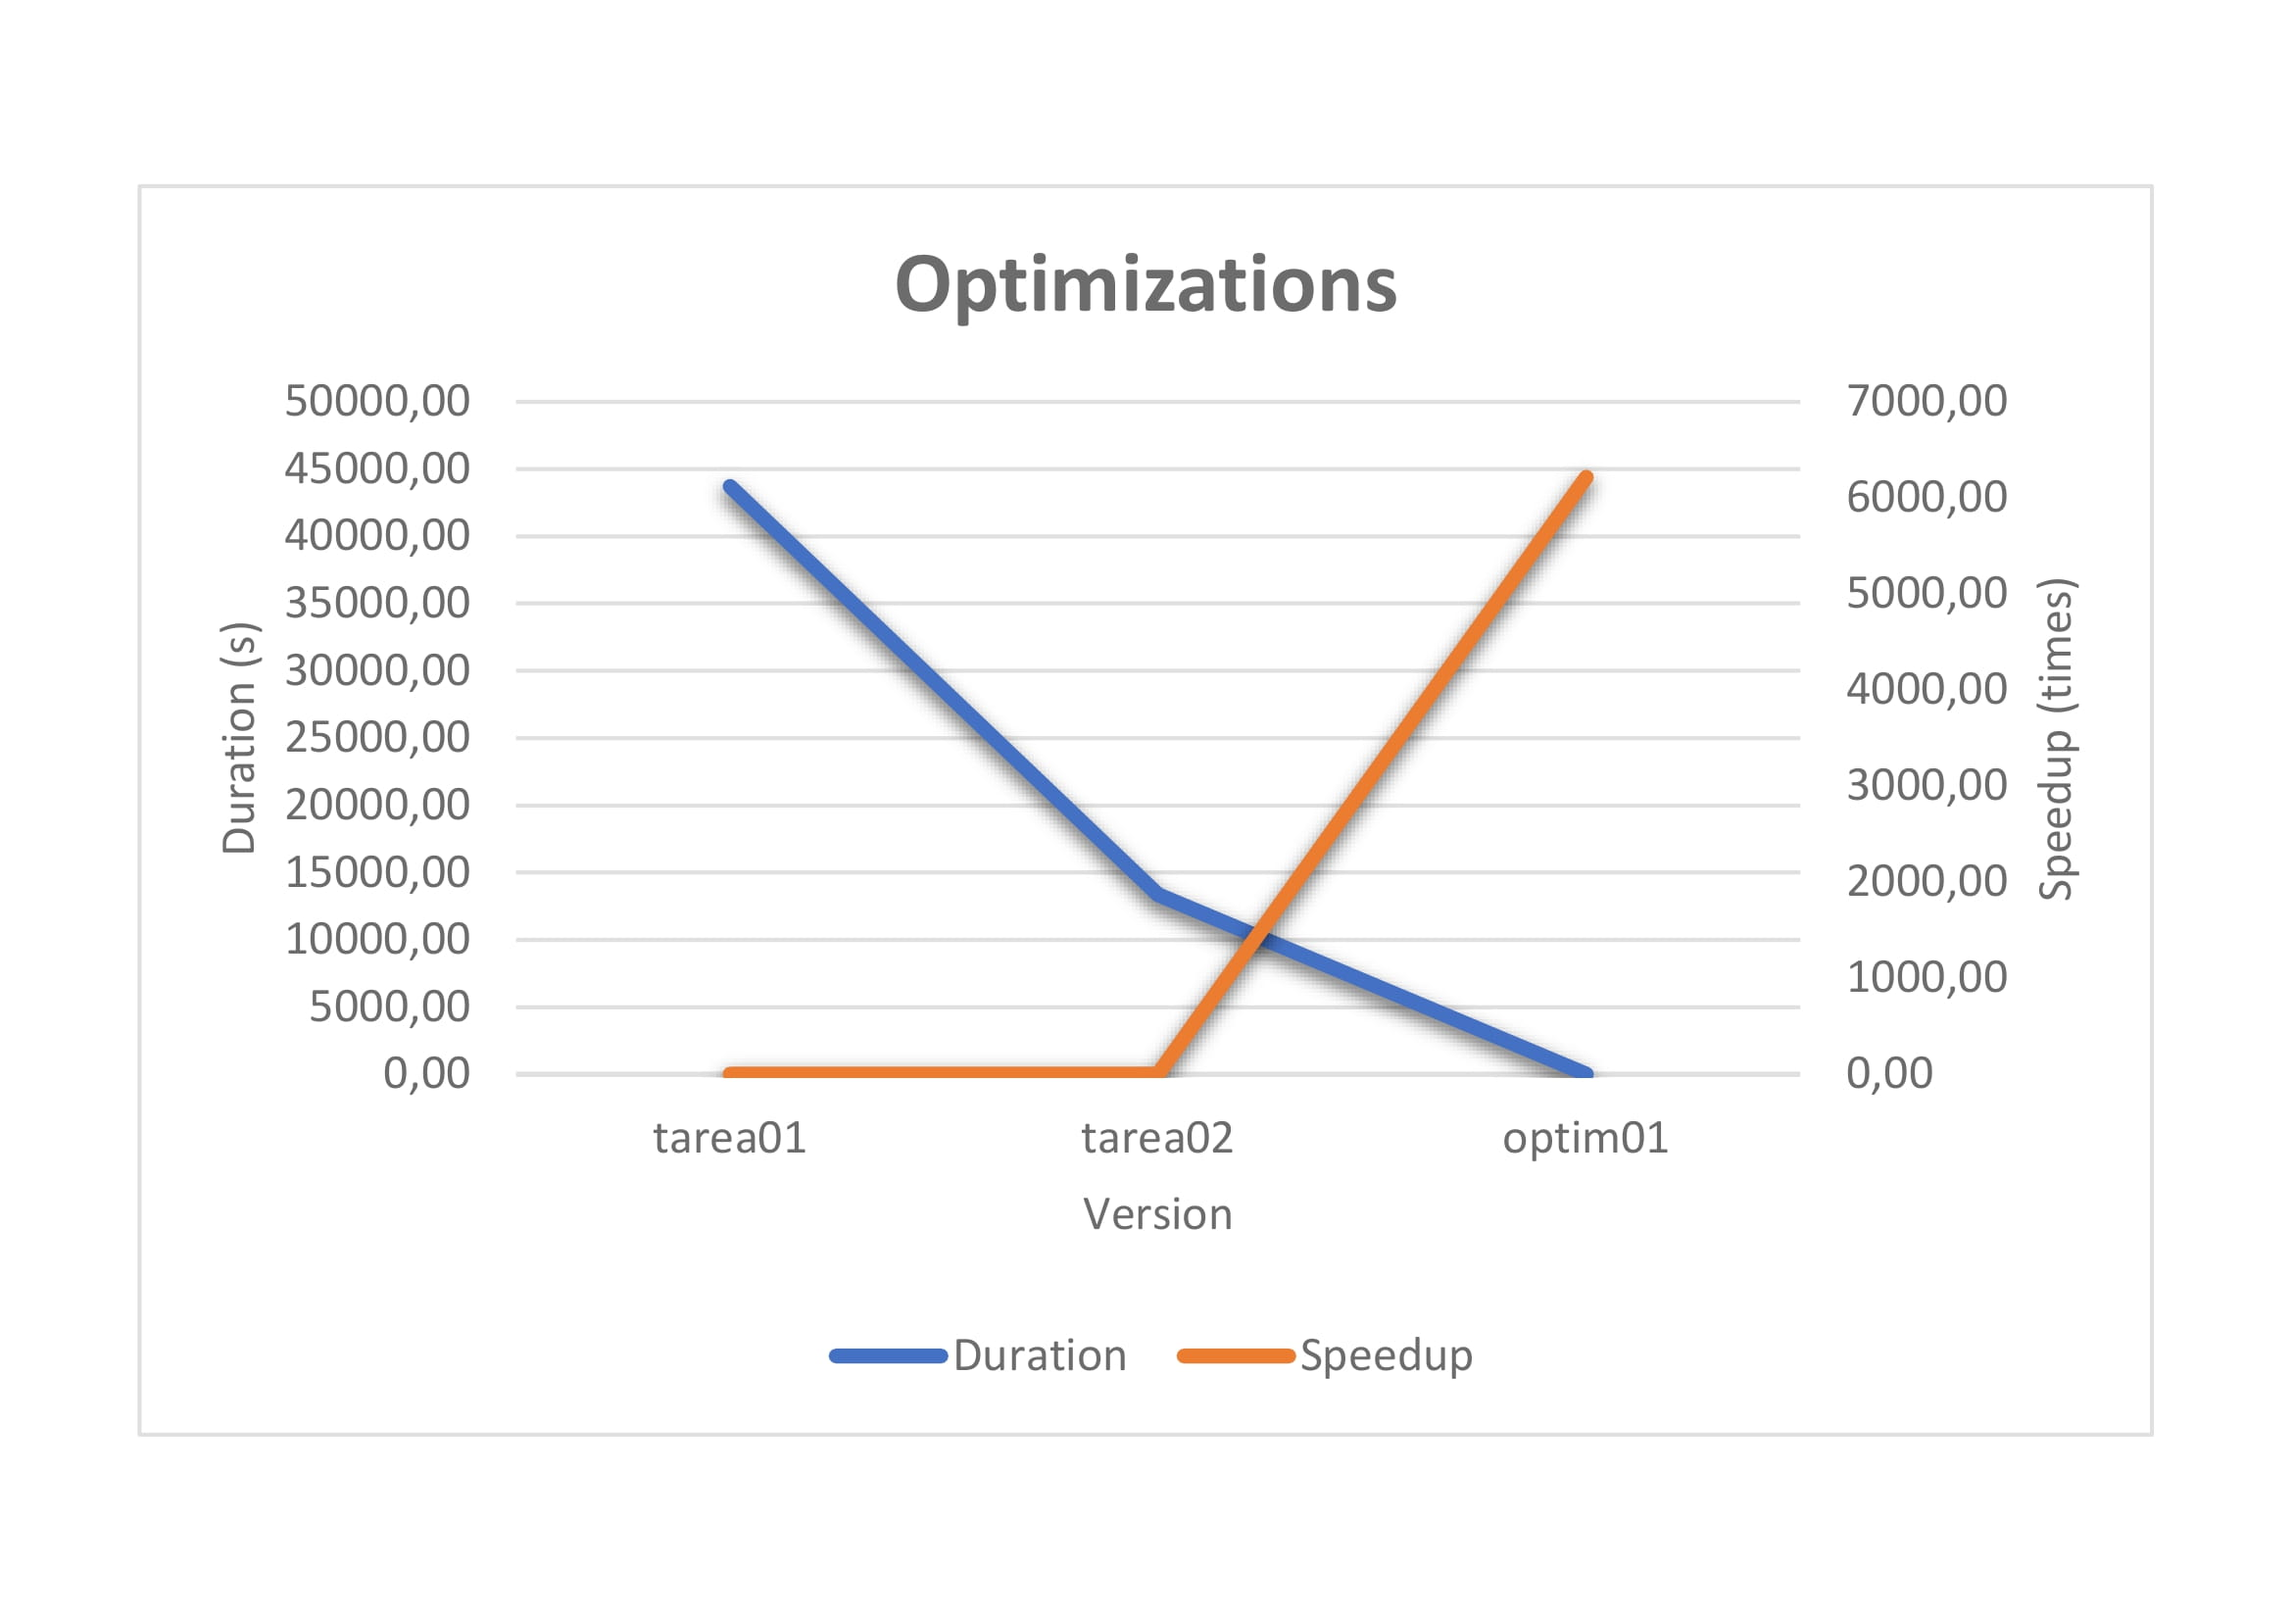
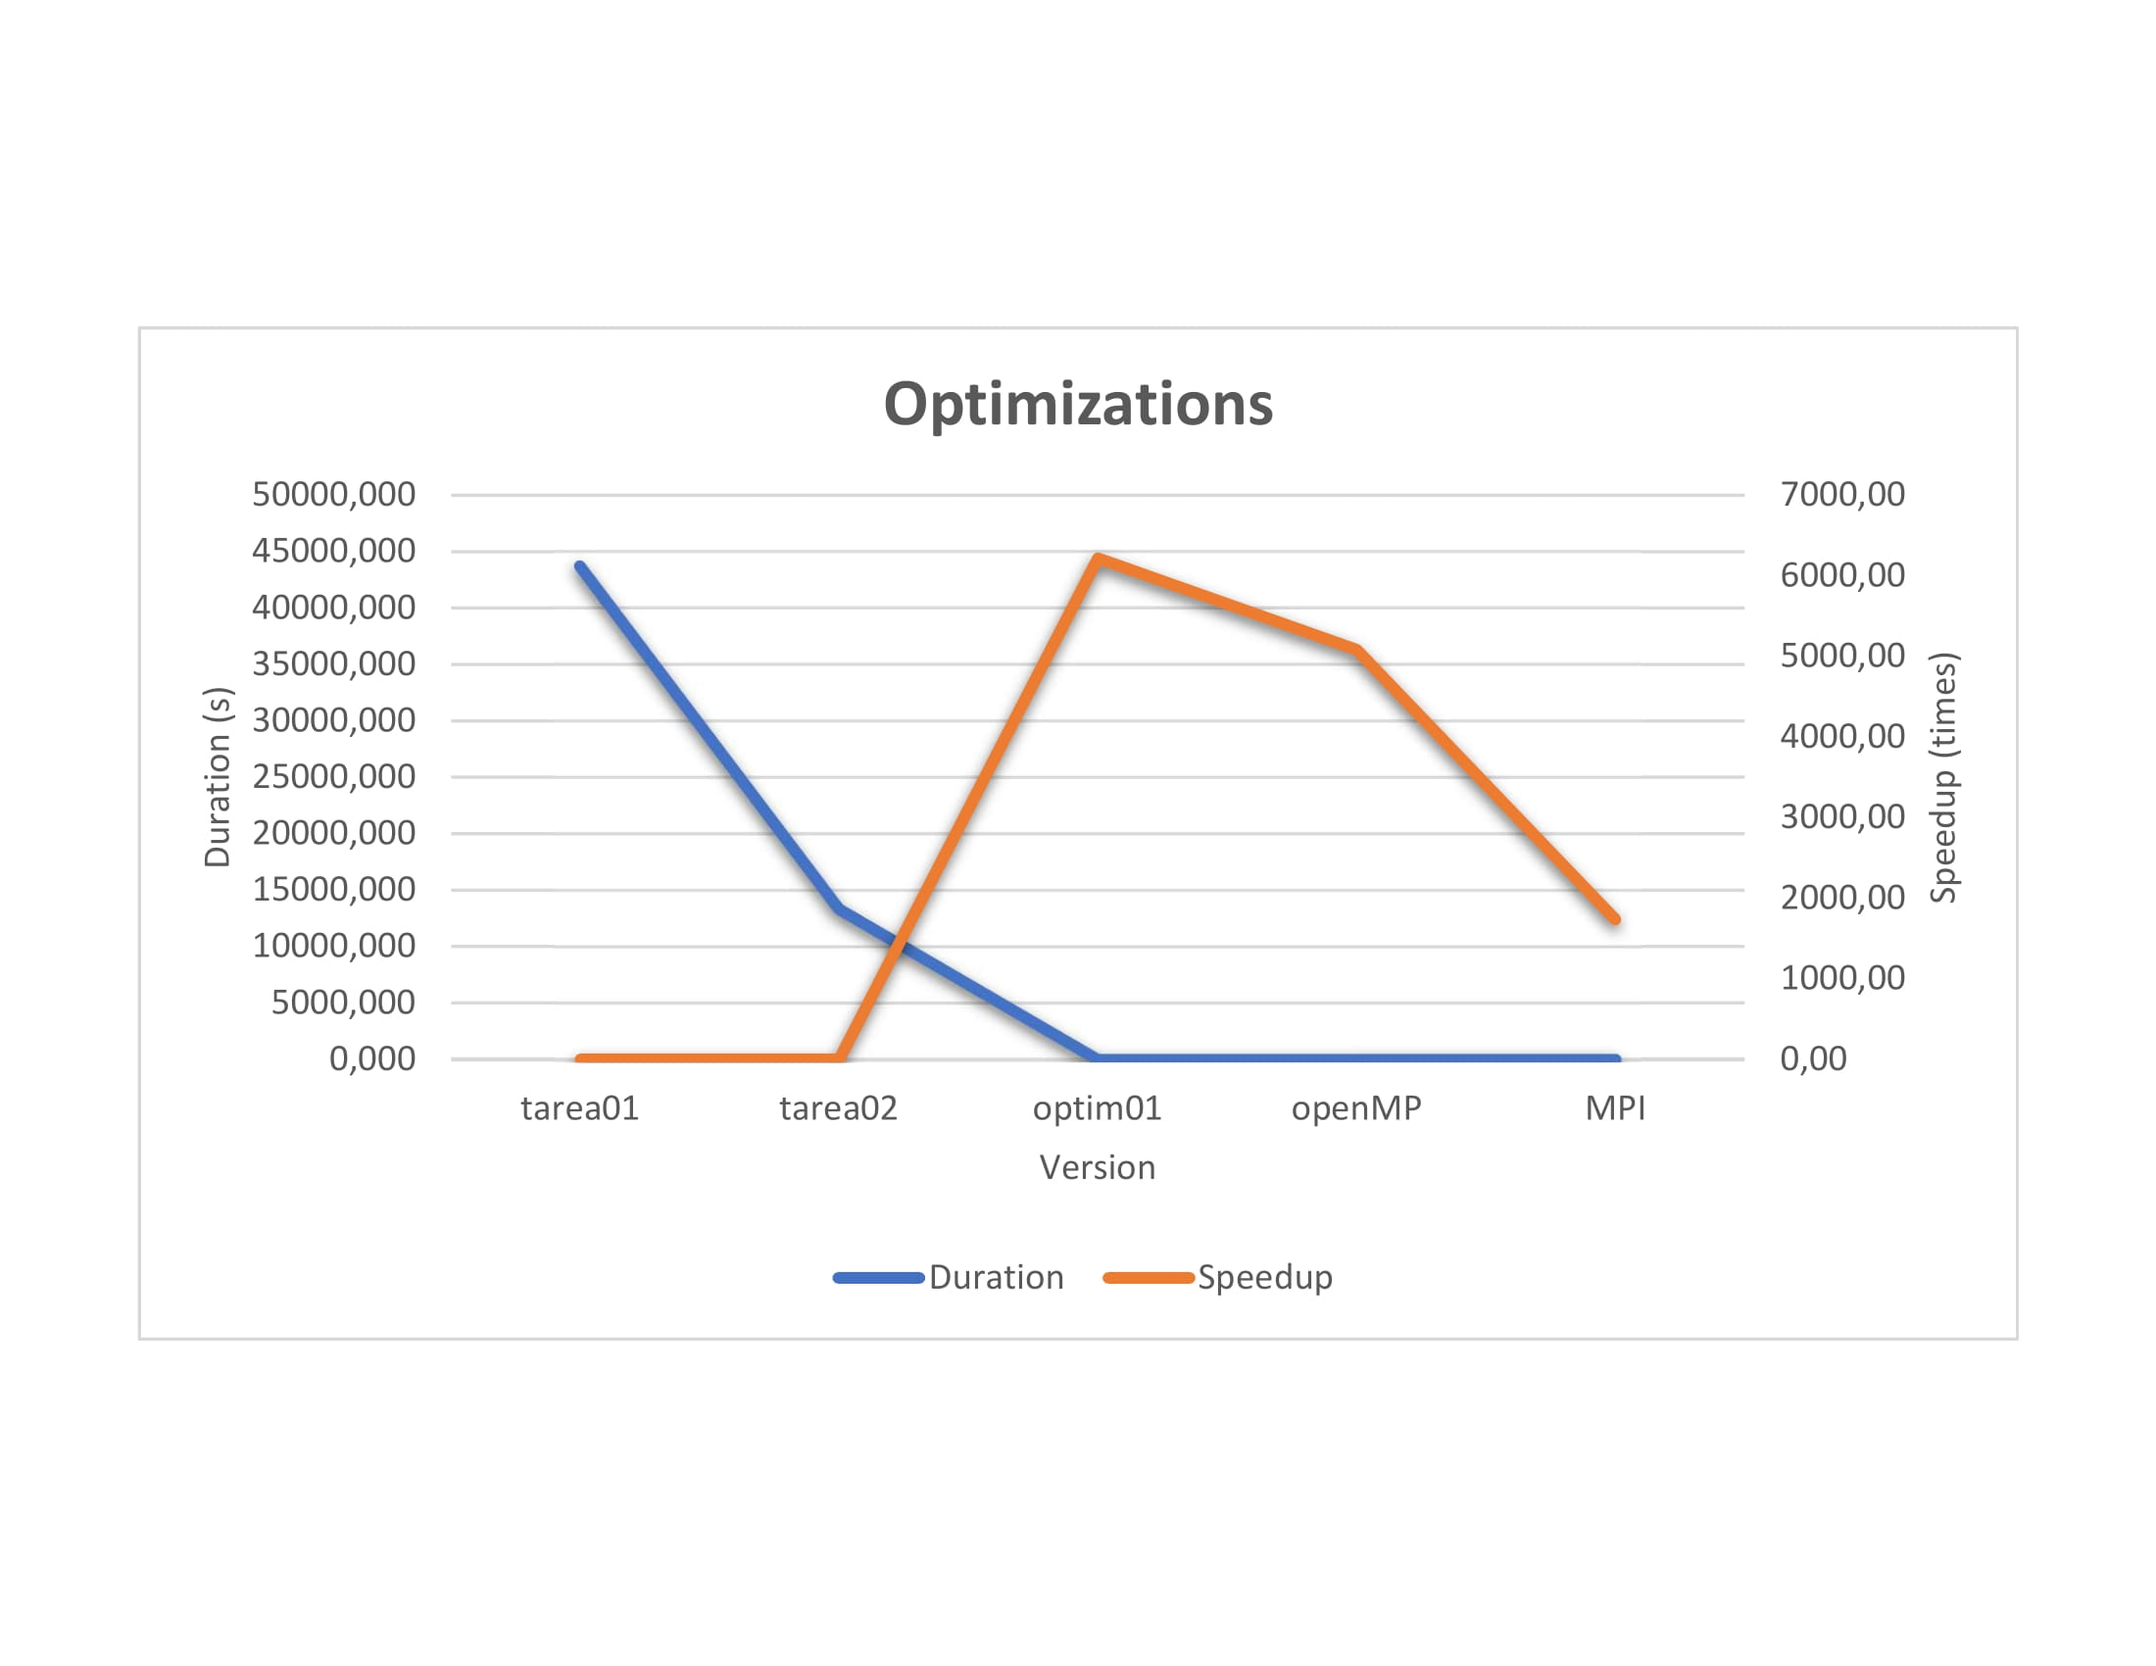
Implementacion de comparacion de las dos tecnologias MPI y Open MP

diff --git a/homeworks/goldbach_omp_mpi/report/README.md b/homeworks/goldbach_omp_mpi/report/README.md
@@ -1,4 +1,4 @@
-# Reportes de Optimización
+# Comparación de optimizaciones
 
 ## Reporte 01: Optimización pthreads | Mapeo dinamico
 
@@ -16,8 +16,8 @@ Para esta tarea se desea optimizar:
 
 #### Modificaciones que se cree incrementarán el rendimiento en las regiones críticas.
 
-1. Colocar a la cantidad de hilos brindados por el usuario a resolver las sumas de goldbacha propuestas y seguidamente de esto los hilos dividen el
-trabajo mediante mapeo dinamico, lo que quiere decir que cada hilo consume el siguiente número disponible y así hasta el final.
+1. Colocar a la cantidad de hilos brindados por el usuario a resolver las sumas de Goldbacha propuestas y seguidamente de esto los hilos dividen el
+trabajo mediante mapeo dinámico, lo que quiere decir que cada hilo consume el siguiente número disponible y así hasta el final.
 
 #### Indiferentemente de si se incrementó o no el rendimiento, documentar las lecciones aprendidas, ya que servirán para otros desarrolladores que intenten optimizar la misma sección de código.
 
@@ -53,7 +53,7 @@ los números y sumas de goldbach
 1. Actualmente se calculan los numeros primos a la fuerza, sin embargo existen una función llamada primality test la cual verifica que un número sea
 primo con menores ciclos que la función actual. Además se almacenar hasta el mayor número ingresado los resultados de primalidad en un vector de bits,
 el cual ayudará a ahorrar espacio y además así evitar recalcular los números primos.
-2. Para el algoritmo actual se utilizan un tiempo O(N^2) para encontrar las sumas de goldbach de números pares y un O(n^3) para los números impares.
+2. Para el algoritmo actual se utiliza un tiempo O(N^2) para encontrar las sumas de goldbach de números pares y un O(n^3) para los números impares.
 Sin embargo existe la posibilidad de reducir estos ciclos obteniendo el segundo y tercer dígito respectivo de la resta de los iteradores.
 3. En el código tenemos un rize que depende de una constante, sin embargo considero que si hacemos que los resize del programa dependen del número
 ingresado por el usuario se podría tener un mejor cálculo de la cantidad de datos que ocupa consumir la máquina. Lo se quiere con esto es que para
@@ -66,31 +66,64 @@ Para esta optimización se lograron resultados muy positivos, iniciando desde el
 implicó que el speedup también creciera y lo más importante es que ahora la eficiencia en conjunto a los dos elementos anteriores, por lo que podemos
 concluir que aplicar una optimización de este nivel en comparación con los anteriores programas sería algo muy atractivo para cualquier cliente.
 
+## Reporte 03: OpenMp
+
+Para poder poner a prueba algunas de las muchas tecnologias las cuales se encuentran en el ámbito laboral
+se ha decidido la implementación de multihilos con *OpenMP* en el la versión más reciente implementada hasta
+el momento de la prueba, la cual correspondía a Optim01, para esto únicamente fue necesario la modificación de
+pequeñas partes del código en las cuales se utilizaban *pthreads*. Una vez aplicada esta pequeña modificación
+obtuvimos que su duración varía en comparación con la versión anterior. Esta modificación provocó que un tiempo de
+7.03s pasará a 8,6s. Por esta información recopilada anteriormente se concluye que *OpenMP* al ser un función mucho
+más rígida, lo cual provoca que el programado no tenga todo el control de cómo se va a aplicar la concurrencia,
+provoca que tenga un mayor tiempo de ejecución que los *pthreads*. Sin embargo la diferencia no es realmente muy
+significativa.
+
+## Reporte 04: OpenMp - MPI
+
+En este nuevo reporte hemos decidido implementar una optimización para sumas de Goldbach realmente grandes y que
+requieran de escalabilidad, más específicamente en este caso de un *closter*. Para la implementación de esta nueva
+optimización se decidió utilizar OpenMP, el cual es el responsable de la paralelización de las sumas de Goldbach,
+y MPI, el cual se encarga de la comunicación entre multiprocesos. Una vez implementado este programa se ha obtenido
+un tiempo de duración de 25,21s, el cual comparado contra el menor de todas las optimizaciones anteriores(7.03s)
+es relativamente más alto. Sin embargo esto es justificable por una razón y esta es que los casos de prueba son
+relativamente pequeños, lo cual impide que nuestro programa escale de una forma más efectiva que los anteriores.
+
 # Comparación de optimizaciones
 
-Ahora una vez ya finalizadas las optimizaciones y tomando en cuenta los resultados sobre el tiempo y speedup, podemos dar una conclusión
-al respecto de estos trabajos. Primero podemos considerar como la primera optimización *Tarea02* en la cual se implementaron hilos de ejecución
-para resolver el programa causó el decremento de una manera discreta en el tiempo de ejecución. Sin embargo esto se obtuvo a cambio de un costo
-computacional relativamente alto como lo son 8 hilos de ejecución. Ahora bien si comparamos la anterior optimización con la última *Optim01*
-podemos notar cómo esta última optimización con un menor costo computacional logra obtener mejores resultados. Como se puede ver en la gráfica
-inferior, en la cual se aprecia un decremento en el tiempo de ejecución de una manera exponencial. Una vez analizado lo anterior se puede concluir
-que no siempre la mejor forma para optimizar un programa va a ser el incremento de los hilos de ejecución. Esto debido a que si un programa de manera
-serial contiene constantes de proporcionalidad altas y ciclos muy costosos, estos se van a propagar por la implementación de un código con varios hilos
-de ejecución, evitando así un buen desarrollo y desempeño del programa.
+Ahora una vez ya finalizadas las optimizaciones y tomando en cuenta los resultados sobre el tiempo y speedup,
+podemos dar una conclusión al respecto de estos trabajos. Primero podemos considerar como la primera optimización
+*Tarea02* en la cual se implementaron hilos de ejecución para resolver el programa causó el decremento de una
+manera discreta en el tiempo de ejecución. Sin embargo esto se obtuvo a cambio de un costo computacional
+relativamente alto como lo son 8 hilos de ejecución. Ahora bien si comparamos la anterior optimización con la
+última *Optim01* podemos notar cómo esta última optimización con un menor costo computacional logra obtener
+mejores resultados. Como se puede ver en la gráfica inferior, en la cual se aprecia un decremento en el tiempo de
+ejecución de una manera exponencial. Una vez analizado lo anterior se puede concluir que no siempre la mejor forma
+para optimizar un programa va a ser el incremento de los hilos de ejecución. Esto debido a que si un programa de
+manera serial contiene constantes de proporcionalidad altas y ciclos muy costosos, estos se van a propagar por la
+implementación de un código con varios hilos de ejecución, evitando así un buen desarrollo y desempeño del
+programa. Por parte de la implementación con la tecnología *OpenMP* hemos obtenido un costo relativamente muy
+cercano a la *Optim01*, recalcando que su tiempo incremento relativamente un poco, pero todo esto a cambio de
+un menor costo de implementación para el programador por lo cual se puede considerar como una solución bastante
+viable. Finalmente con respecto a la implementación con las tecnologías *OpenMp - MPI* no hemos podido ver su
+verdadera utilidad a gran escala, sin embargo sus tiempos en baja escala siguen siendo positivos, pero no mejores
+a *Optim01*, por lo que podemos decir que esta solución está principalmente basada en muchos y muy grandes números.
 
 ![Grafico01](./img/Grafico01.jpg)
 
-# Grado de concurrencia
+# Grado de concurrencia(Optim01)
 
-En este apartado se desea llegar a una conclusión sobre cuál debe ser los grados de concurrencia para la última optimización implementada *Optim01*.
-Para esta discusión se adjunto un gráfico en la parte inferior, el cual muestra los resultados obtenidos de un análisis a partir de varias ejecuciones
-en el programa, con distintos números de hilos. Estos resultados incluyen speedup y efficiency, por lo que este gráfico únicamente compara estos dos
-elementos. Algunos aspectos a destacar sobre el análisis realizado es la intersección que se visualiza en el gráfico entre el eje de eficiencia y el
-eje de speedup. Además debemos que tener en cuenta que el rendimiento es un resultado es importante para todo programa, esto para lograr un buen uso
-de los recursos computacionales, en este caso podemos utilizar el speedup y eficiencia para concluir cuál grado de concurrencia nos daría el mejor
-rendimiento. Tomando en cuenta al gráfico podemos concluir que la intersección  del eje de eficiencia y speedup, el cual está aproximadamente sobre
-los 4 hilos de ejecución, es el punto donde se alcanza un mejor rendimiento. Esto porque el gasto computacional genera un incremento de rendimiento
-valioso en comparación con la eficiencia y speedup obtenido.
+En este apartado se desea llegar a una conclusión sobre cuál debe ser los grados de concurrencia para la
+optimización *Optim01*. Para esta discusión se adjunto un gráfico en la parte inferior, el cual
+muestra los resultados obtenidos de un análisis a partir de varias ejecuciones en el programa, con distintos
+números de hilos. Estos resultados incluyen speedup y efficiency, por lo que este gráfico únicamente compara estos
+dos elementos. Algunos aspectos a destacar sobre el análisis realizado es la intersección que se visualiza en el
+gráfico entre el eje de eficiencia y el eje de speedup. Además debemos que tener en cuenta que el rendimiento es
+un resultado es importante para todo programa, esto para lograr un buen uso
+de los recursos computacionales, en este caso podemos utilizar el speedup y eficiencia para concluir cuál grado de
+concurrencia nos daría el mejor rendimiento. Tomando en cuenta al gráfico podemos concluir que la intersección 
+del eje de eficiencia y speedup, el cual está aproximadamente sobre
+los 4 hilos de ejecución, es el punto donde se alcanza un mejor rendimiento. Esto porque el gasto computacional
+genera un incremento de rendimiento valioso en comparación con la eficiencia y speedup obtenido.
 
 ![Grafico02](./img/Grafico02.jpg)
 
@@ -102,13 +135,13 @@ Input Size: 382
 
 ## Optimizations
 
-|Level|Tarea01|Tarea02|Optim01|
-|-----|-----|-----|-----|
-|Threads|1|8|8|
-|Duration|43715.51|13358.47|7.03|
-|Speedup|1|3.27|6216.17|
+|Level|Tarea01|Tarea02|Optim01|Open MP|MPI|
+|-----|-----|-----|-----|-----|-----|
+|Threads|1|8|8|8|24|
+|Duration|43715.51|13358.47|7.03|8.6|25.2|
+|Speedup|1|3.27|6216.17|5085,9|1734.01|
 
-## Concurrency Level
+## Concurrency Level(Optim01)
 
 |Level|1|.5C|1C|2C|4C|D|
 |-----|-----|-----|-----|-----|-----|-----|
